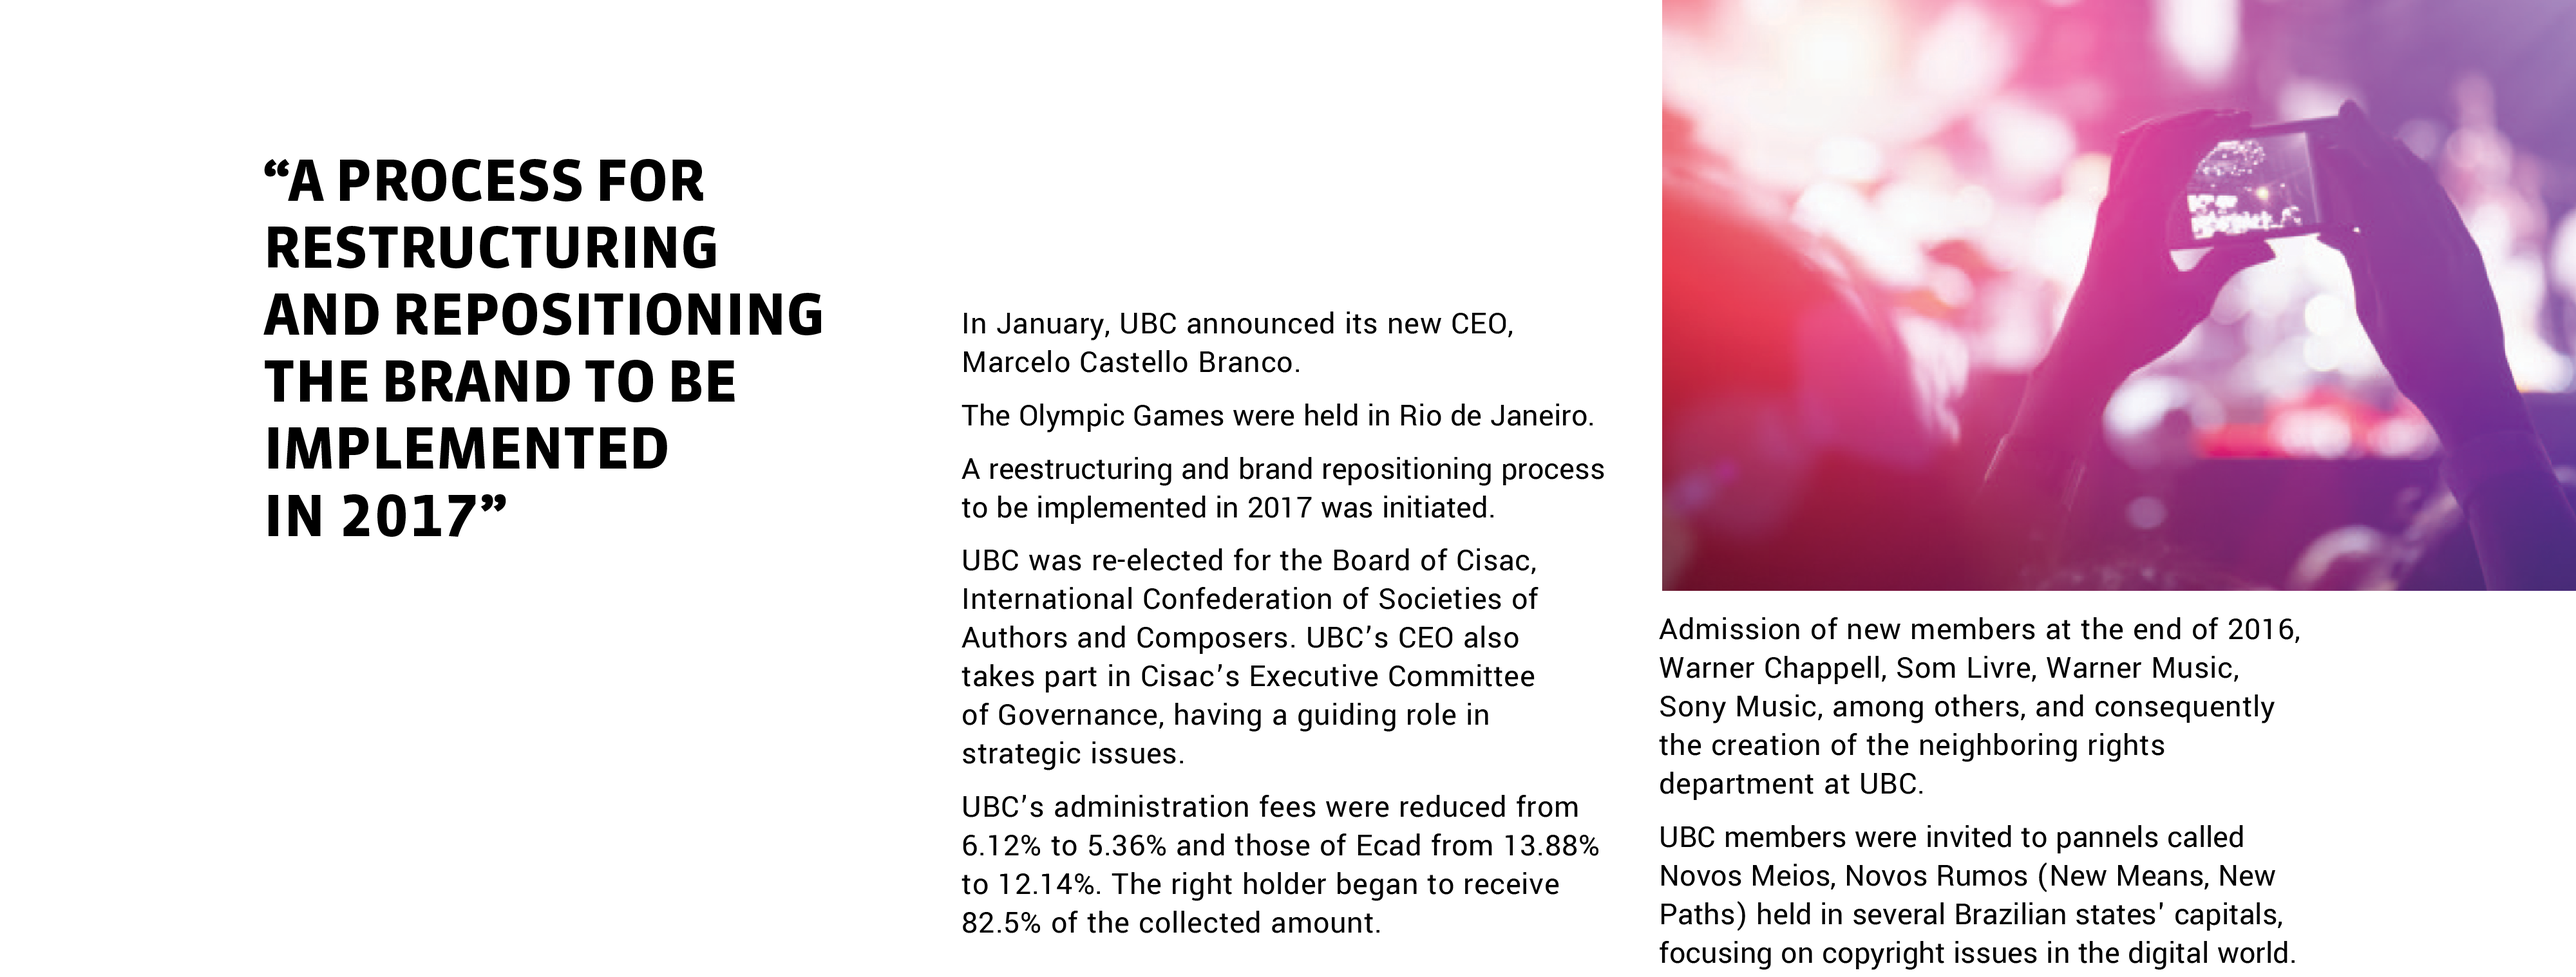
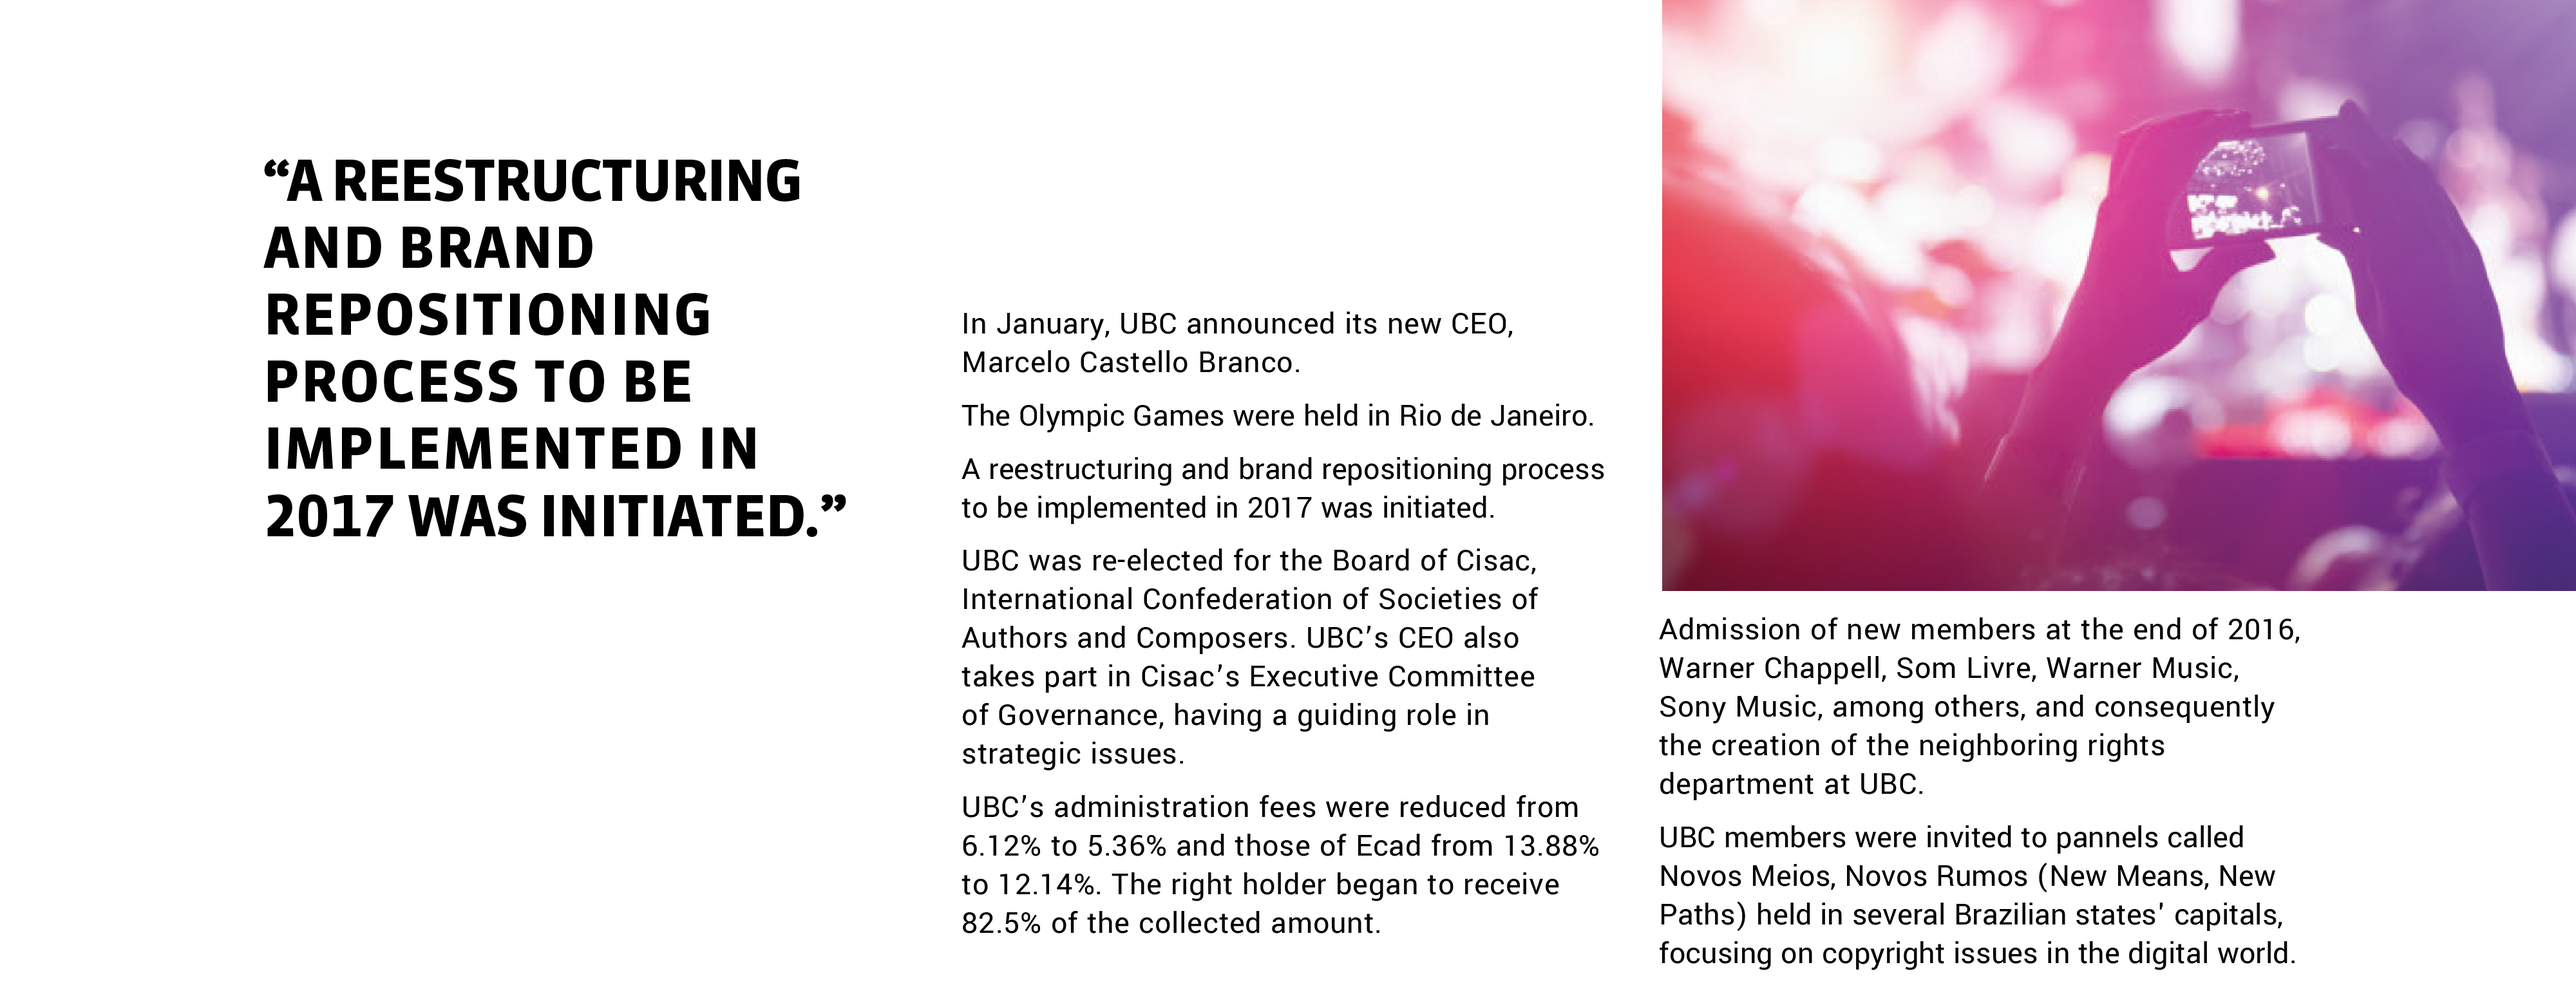
correcao conteudo ingles

diff --git a/msg_diretoria.html b/msg_diretoria.html
@@ -134,7 +134,7 @@
         <div class="container">
             <div class="row">
                 <div class="col-lg-4 col-md-4 col-sm-12">
-                    <h5 class="text-danger font-SanukTF">MÚSICA É ARTE, MAS TAMBÉM, MAIS DO QUE NUNCA, É BIG DATA. É NA TECNOLOGIA QUE NOS APOIAMOS PARA ENTREGAR MELHORES RESULTADOS E CUMPRIR NOSSO PAPEL FINANCEIRO E SOCIAL."</h5></div>
+                    <h5 class="text-danger font-SanukTF">“MÚSICA É ARTE, MAS TAMBÉM, MAIS DO QUE NUNCA, É BIG DATA. É NA TECNOLOGIA QUE NOS APOIAMOS PARA ENTREGAR MELHORES RESULTADOS E CUMPRIR NOSSO PAPEL FINANCEIRO E SOCIAL.”</h5></div>
                 <div class="col-lg-4 col-md-4 col-sm-6">
                     <p>O mercado musical vive em transformação permanente. São inovações sem limites e fronteiras que oferecem novas oportunidades e, ao mesmo tempo, novos desafios. A UBC é mais um reflexo deste movimento, em sua avidez por prestar melhores serviços dentro desta nova realidade para todos que fazem a música existir.</p>
                     <p>Música é arte, mas também, mais do que nunca, é big data. É na tecnologia que nos apoiamos para entregar melhores resultados e cumprir nosso papel financeiro e social. Dar valor à música neste imenso universo de regras dinâmicas é nosso foco e o que nos estimula, cada vez mais. </p>

diff --git a/eng/capitulo1.html b/eng/capitulo1.html
@@ -139,7 +139,7 @@
         <div class="container-fluid">
             <div class="row ajuste">
                 <div class="col-lg-3 col-md-3 col-sm-9 col-lg-offset-1 col-md-offset-1" >
-                    <h5 class="font-SanukTF"><b>“A PROCESS FOR RESTRUCTURING AND REPOSITIONING THE BRAND TO BE IMPLEMENTED IN 2017” </b></h5></div>
+                    <h5 class="font-SanukTF"><b>“A RESTRUCTURING AND BRAND REPOSITIONING PROCESS TO BE IMPLEMENTED IN 2017 WAS INITIATED.” </b></h5></div>
                 <div class="col-lg-3 col-md-3 col-sm-6 ajuste-cap-1">
                     <p>In January, UBC announced its new CEO, Marcelo Castello Branco.</p>
                     <p>The Olympic Games were held in Rio de Janeiro.</p>
